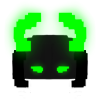
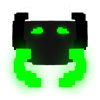
Added player 360  motion

diff --git a/index.html b/index.html
@@ -20,7 +20,7 @@
         <div id="first-player-gui" class="player-gui">
             <div class="name">player 1</div>
         </div>
-        <div id="game-arena">
+        <div id="game-area">
             <div id="layers"></div>
         </div>
         <div id="second-player-gui" class="player-gui">
@@ -29,34 +29,29 @@
     </div>
     <script src="layer.js"></script>
     <script src="game-object.js"></script>
-    <script src="arena-background.js"></script>
+    <script src="area-background.js"></script>
     <script src="controls.js"></script>
     <script>
-        function sleep(ms) {
-            return new Promise(resolve => setTimeout(resolve, ms));
-        }
-        // ERROR HERE
-        document.addEventListener("keydown", keyDownHandler, false);
-        document.addEventListener("keyup", keyUpHandler, false);
+        document.addEventListener("keydown", KeyDownHandler, false); // change to jquery
+        document.addEventListener("keyup", keyUpHandler, false); // change to jquery
 
         const body = $('body');
         const playerGui = $('.player-gui');
-        const gameArena = $('#game-arena');
-        const background = new GameObject();
+        const gameArena = $('#game-area');
+        const background = new GameObject(0, 0, 0, 0);
         createBgGradient(background);
-
-        // Testing inserting image and moving it.
-        const champ = new GameObject();
+        // Setting up game player
+        const champ = new GameObject(0, 0, 100, 100);
         champ.addImage('baseImg', 'vap-green.png')
+        champ.currentImage = champ.images['baseImg'];
 
-        async function moveImg() {
-            for (let i = 0; i < 600; i++) {
-                await sleep(10);
-                champ.layer.clear();
-                champ.layer.ctx.drawImage(champ.images['baseImg'], i, i + 6);
-            }
+        function updateGameArea() {
+            champ.catchPlayerMove();
+            champ.changePos();
+            champ.layer.clear();
+            champ.update();
         }
-        moveImg();
+        this.gameLoop = setInterval(updateGameArea, 20);
     </script>
 </body>
 

diff --git a/game-object.js b/game-object.js
@@ -4,9 +4,18 @@
  * images
  */
 class GameObject {
-    constructor() {
+    constructor(x, y, width, height) {
             this.layer = new CanvasLayer;
+            this.xCor = x;
+            this.yCor = y;
+            this.width = width;
+            this.height = height;
+            this.speed = 0;
+
+            this.angle = 0
+            this.moveAngle = 0; // Why this name? maybe change it?
             this.images = {};
+            this.currentImage = null;
         }
         /**
          * Add an image to a list of images.
@@ -17,5 +26,35 @@ class GameObject {
         this.images[name] = new Image();
         this.images[name].src = src;
     }
+    update() {
+        this.layer.ctx.save();
+        this.layer.ctx.translate(this.xCor, this.yCor);
+        this.layer.ctx.rotate(this.angle);
+        this.layer.ctx.drawImage(this.currentImage, parseInt(this.width / -2), parseInt(this.height / -2));
+        this.layer.ctx.restore();
+    }
+    rotate() {
 
+    }
+    catchPlayerMove() {
+        if (arrowControls['left']) {
+            this.moveAngle = -10;
+        }
+        if (arrowControls['right']) {
+            this.moveAngle = 10;
+        }
+        if (arrowControls['up']) {
+            this.speed = 20;
+        }
+        if (arrowControls['down']) {
+            this.speed = -20;
+        }
+    }
+    changePos() {
+        this.angle += this.moveAngle * Math.PI / 180;
+        this.xCor += this.speed * Math.sin(this.angle);
+        this.yCor -= this.speed * Math.cos(this.angle);
+        this.moveAngle = 0;
+        this.speed = 0;
+    }
 }

diff --git a/style.css b/style.css
@@ -18,19 +18,19 @@ body {
 
 .player-gui {
     width: 15%;
-    background-color: rgba(83, 0, 0, 0.397);
+    background-color: rgba(36, 0, 31, 0.575);
 }
 
 .player-gui .name {
     width: 100%;
     text-align: center;
-    background-color: rgba(133, 0, 0, 0.493);
+    background-color: rgba(69, 0, 133, 0.493);
     padding: 1rem;
     font-size: 1.5rem;
     font-family: 'Audiowide', regular;
 }
 
-#game-arena {
+#game-area {
     background-color: rgba(0, 255, 255, 0.205);
     width: 80%;
 }

diff --git a/game-hero.js b/game-hero.js
@@ -1,9 +1,12 @@
 class GameHero {
     constructor() {
         super();
-        this.statistics = {
-            name = 'vapor',
-            hp = 0,
-        }
+        this.name = 'vapor'
+
+        this.health = 0;
+        this.heading = null;
+    }
+    move() {
+        super.move(this.heading);
     }
 }

diff --git a/controls.js b/controls.js
@@ -30,6 +30,3 @@ function KeyDownHandler(e) {
         arrowControls.down = true;
     }
 }
-
-document.addEventListener("keydown", KeyDownHandler, false);
-document.addEventListener("keyup", keyUpHandler, false);
